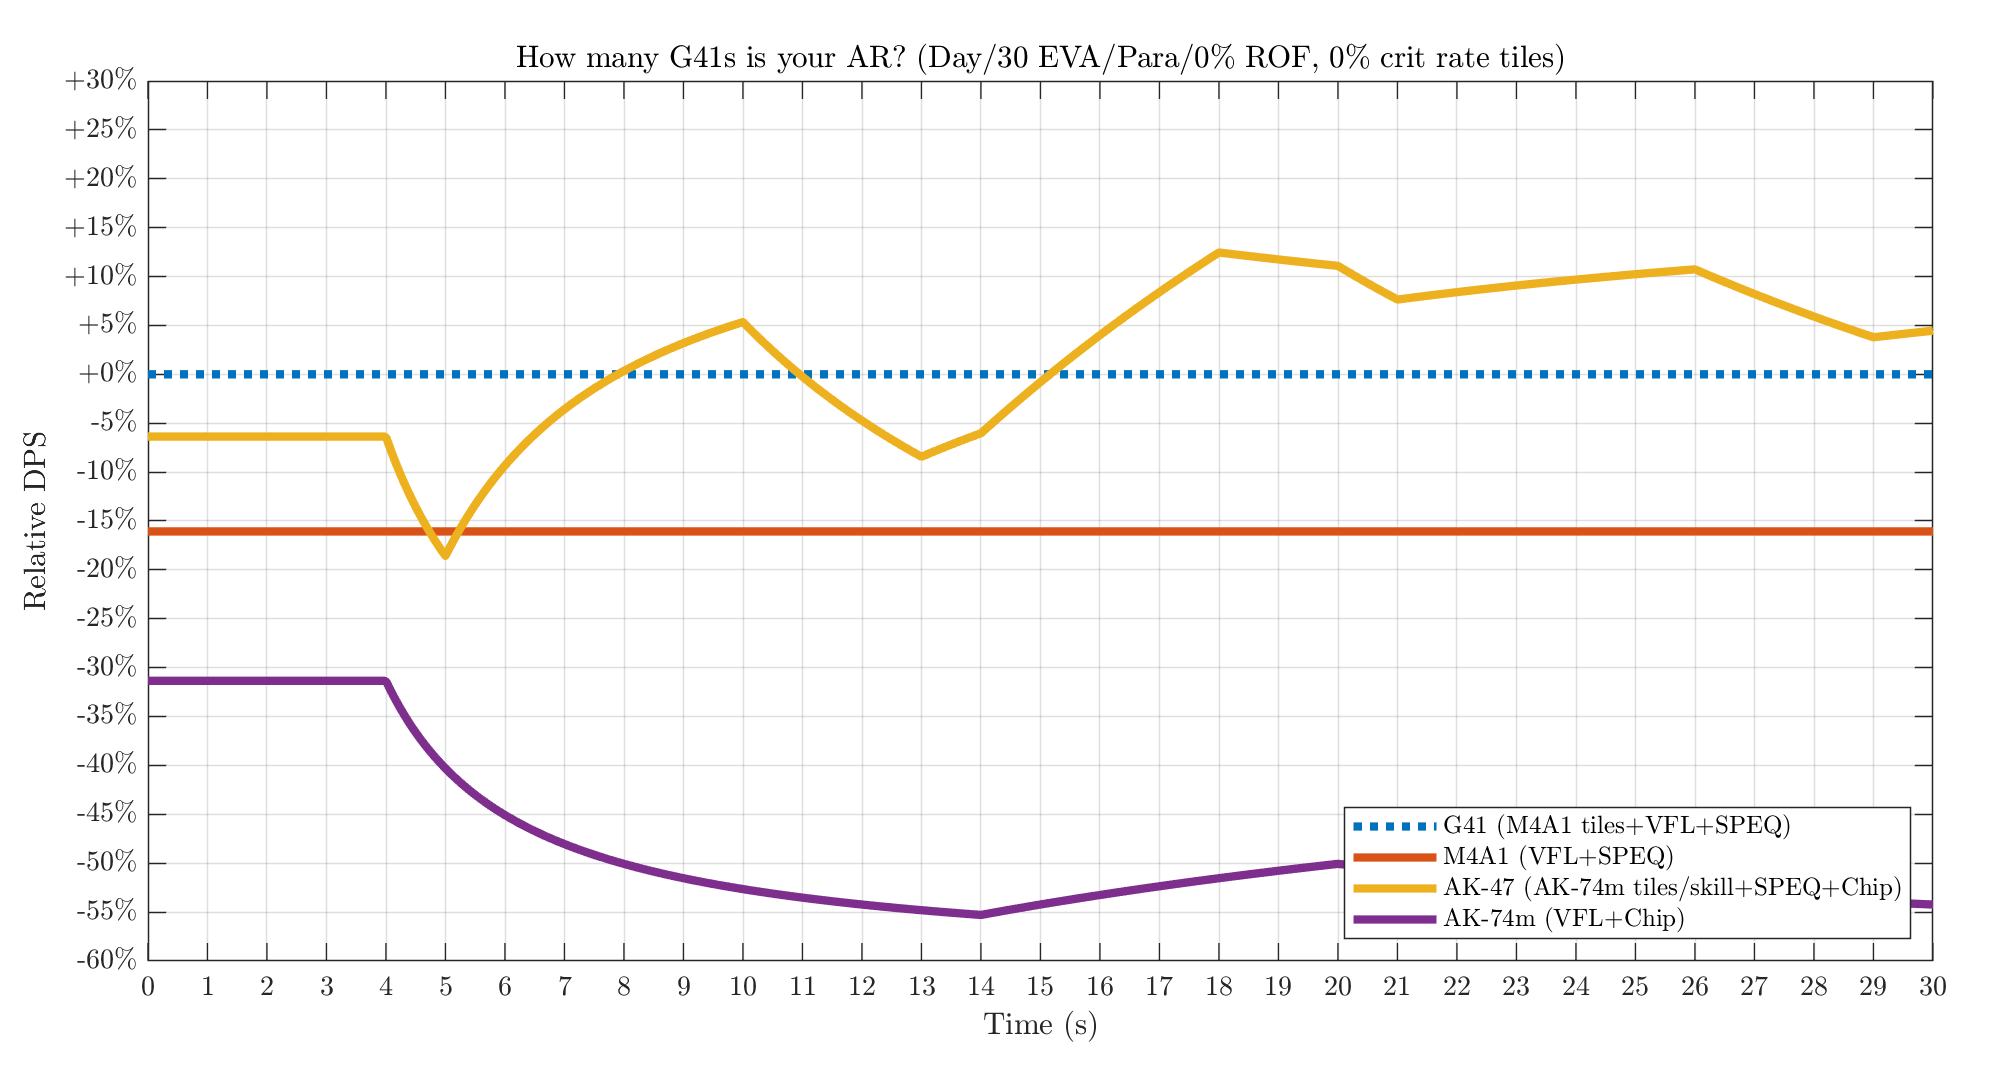
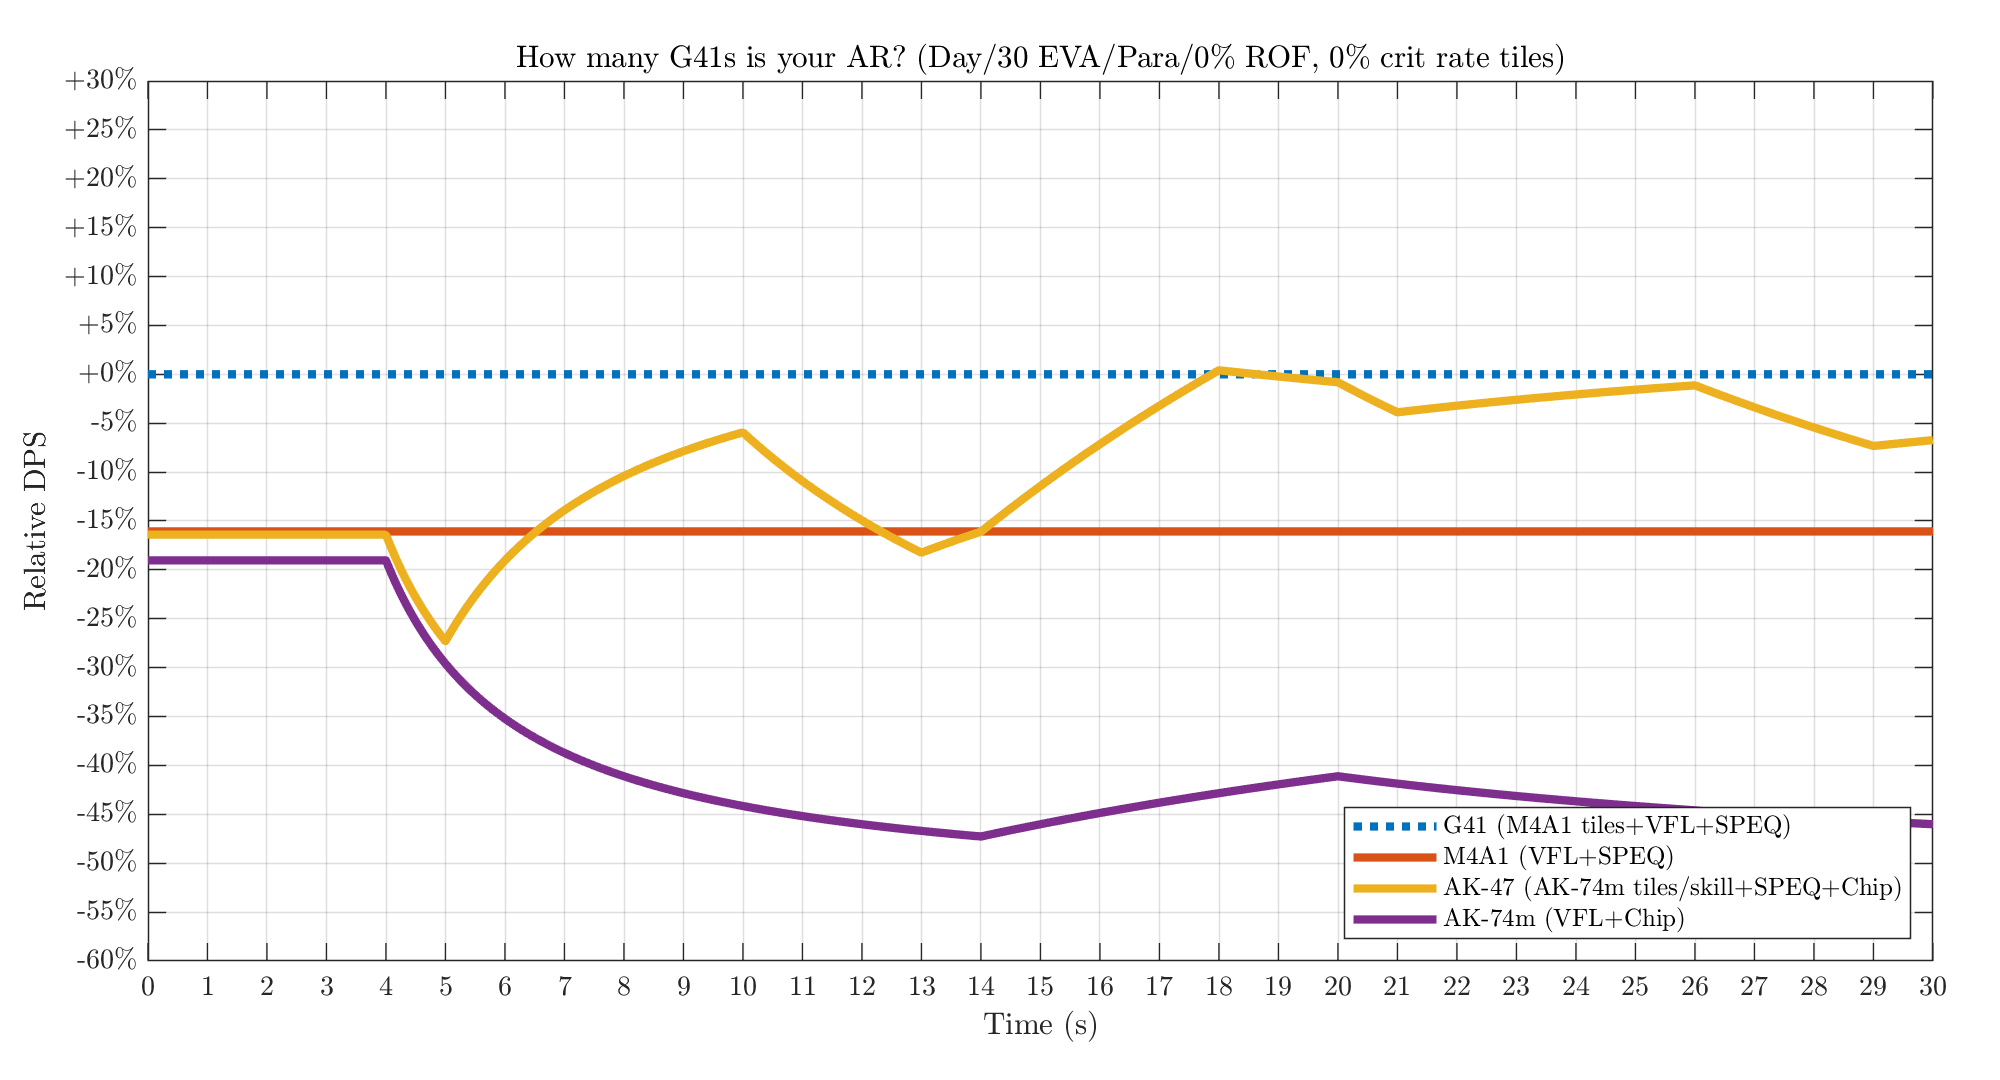
474m: corrected misinformation

diff --git a/pages/474m.html b/pages/474m.html
@@ -50,7 +50,7 @@ gtag('config', 'G-805N997DPC');
 	<p>
 		T-Dolls in the echelon carrying an [AK] are enhanced;
 		<ul>
-			<li>[AK-74M]: All T-Dolls wielding an AK in the echelon gain 5% damage and rate of fire.</li>
+			<li>AK74M: With every [AK] T-Doll in the echelon, increase self damage and rate of fire by 5% (additively).</li>
 			<li>[AK-47]: "Strike Focus" damage and accuracy buffs are swapped.</li>
 			<li>[AK-74U]: "Purge Reaction" is buffed to a passive.</li>
 			<li>[AK-12]: "Eye of the White Mastiff" grants an additional 35% critical hit damage while it is active.</li>
@@ -155,7 +155,7 @@ gtag('config', 'G-805N997DPC');
 <p>
 	However, the support AR's damage is concerning.
 	We expect G41 & AK-47 to outperform M4/74M as they're getting fairly substantial tiles, but AK-74M is <em>really</em> far down.
-	She has her own permanent 5% FP & ROF buff, but that's a far cry from M4A1's 75% selfbuff (and crazy mod3 SPEQ).
+	She has her own permanent 15% FP & ROF buff, but that's a far cry from M4A1's 75% selfbuff (and crazy mod3 SPEQ).
 </p>
 <p>
 	Now, the same chart but adding G41 & M4's numbers as well as 47 & 74M's (plus another AK to keep things fair):
